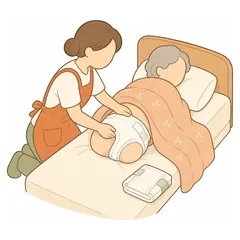
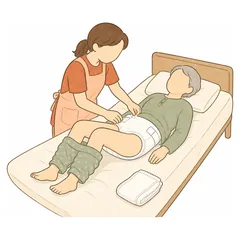
v30: オムツ交換のイラストを両足が見える絵に差し替え

diff --git a/sw.js b/sw.js
@@ -1,7 +1,7 @@
 // 通信がなくても起動できるように、アプリの部品をスマホの中に保存しておく仕組み（サービスワーカー）。
 // 撮影した映像はここでは一切扱わない。保存するのはアプリの部品だけ。
 
-const VERSION = 'v29';
+const VERSION = 'v30';
 const CACHE = 'kaigo-camera-' + VERSION;   // 名前を変えると古い保存分が消えなくなるので、接頭辞はそのまま
 
 // 最初に開いたときに、まとめて保存する部品

diff --git a/app.js b/app.js
@@ -667,7 +667,7 @@ $('saveBtn').addEventListener('click', async () => {
 });
 
 // ---- 版の表示（いま動いている版を確かめられるように。sw.js の VERSION と同じにする） ----
-const APP_VERSION = 'v29';
+const APP_VERSION = 'v30';
 $('appVer').textContent = `ケアREC ${APP_VERSION}`;
 
 // ---- 通信がなくても起動できるようにする ----
